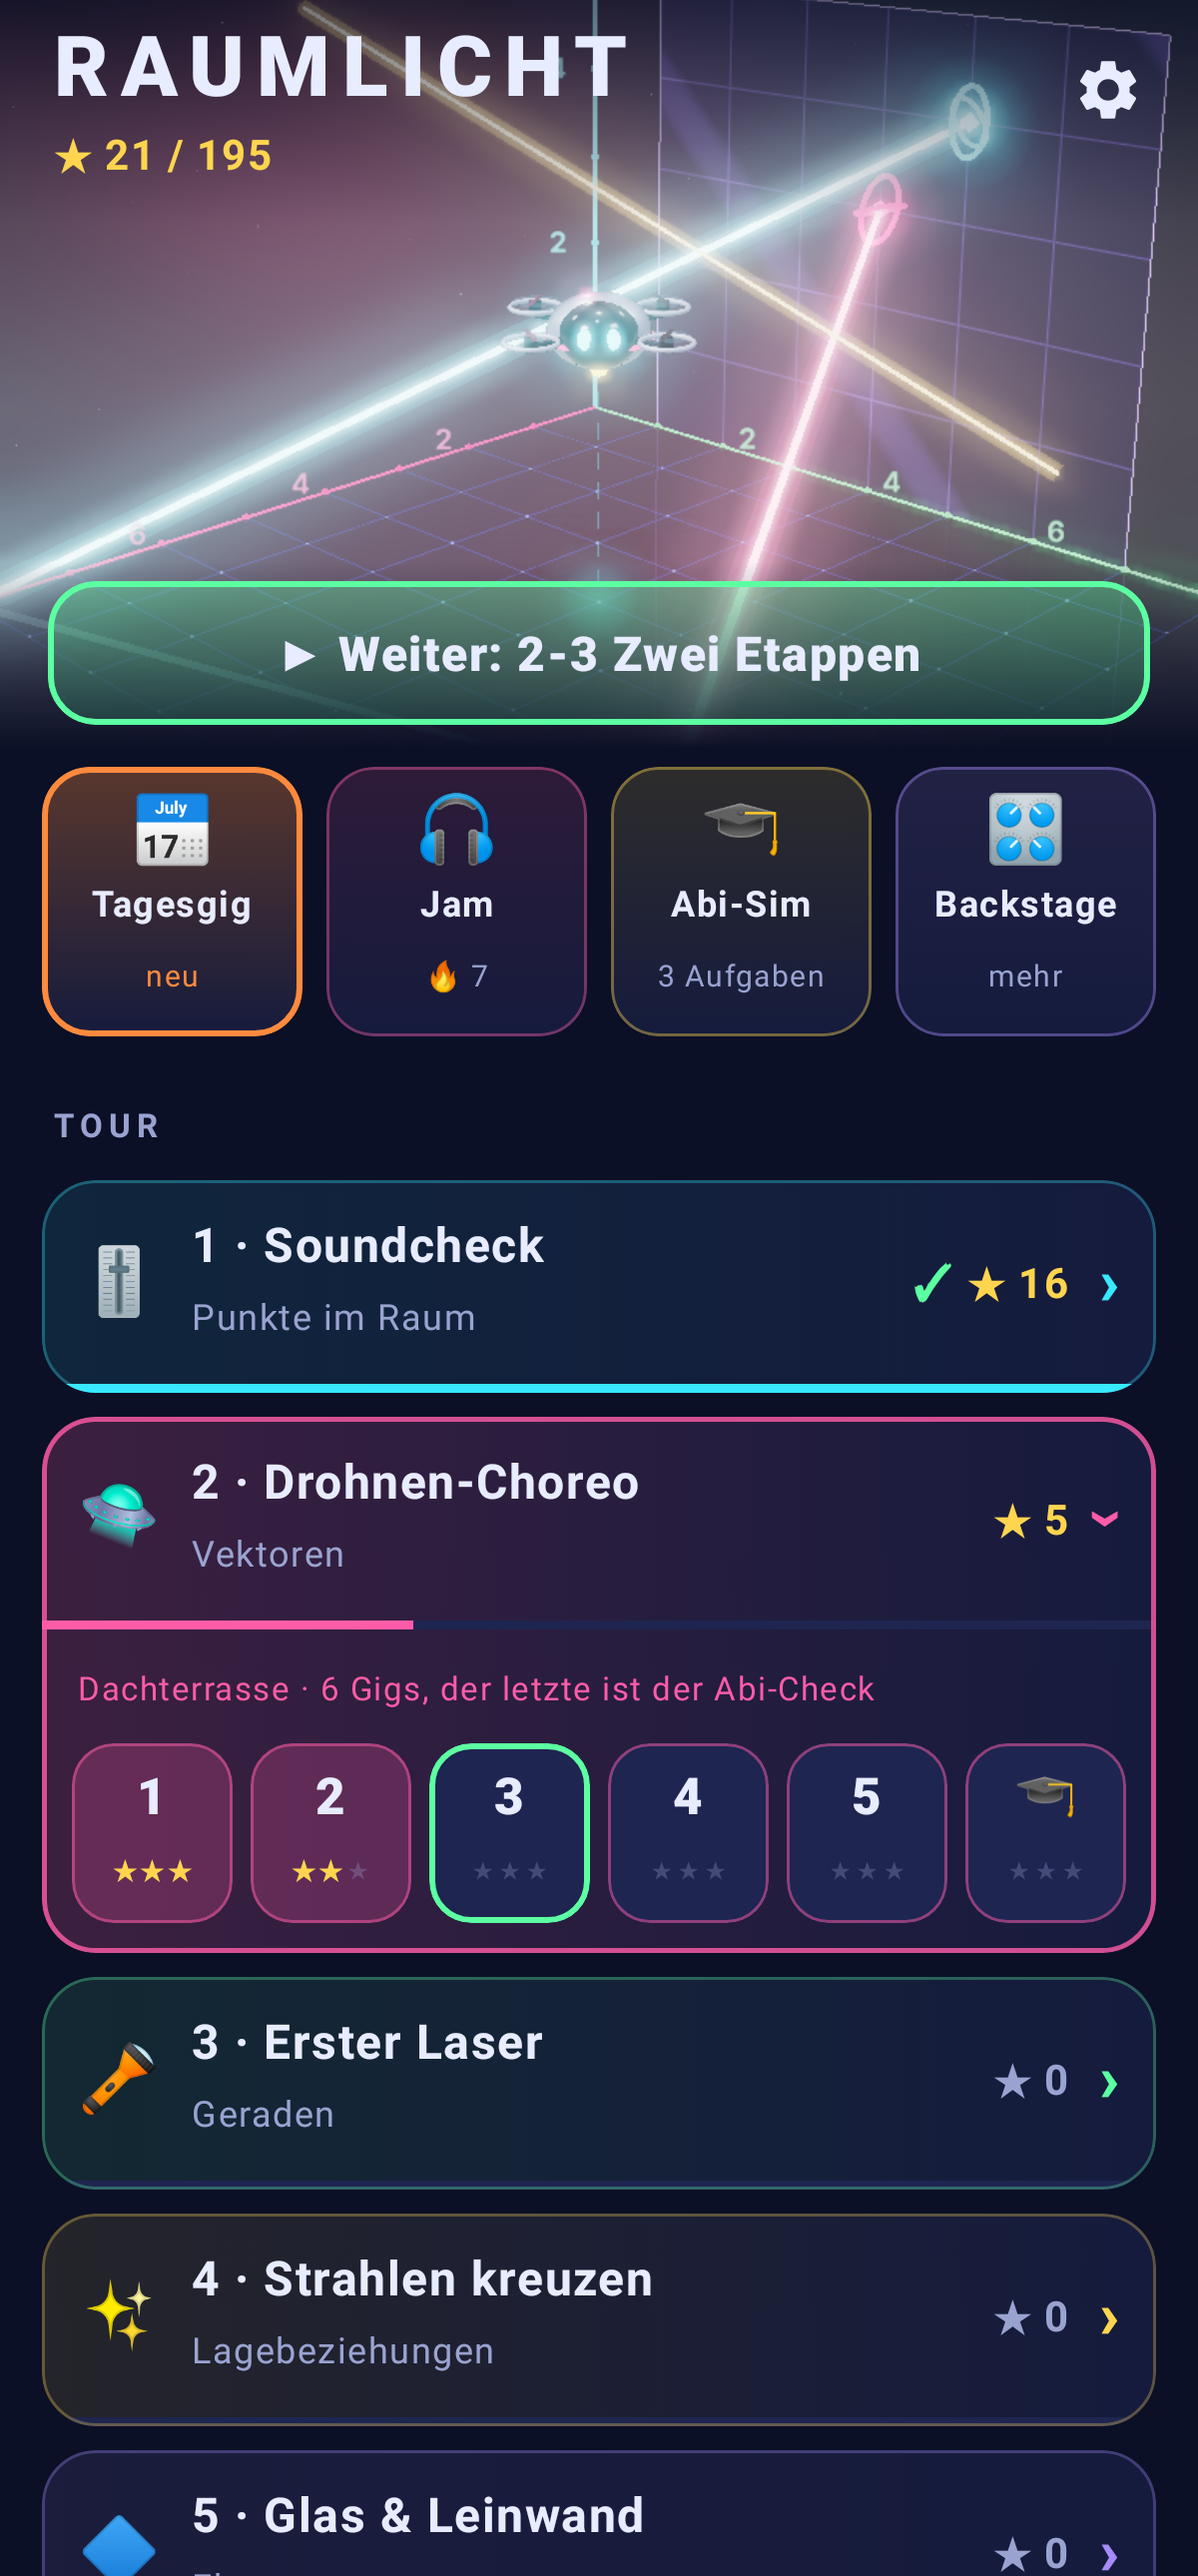
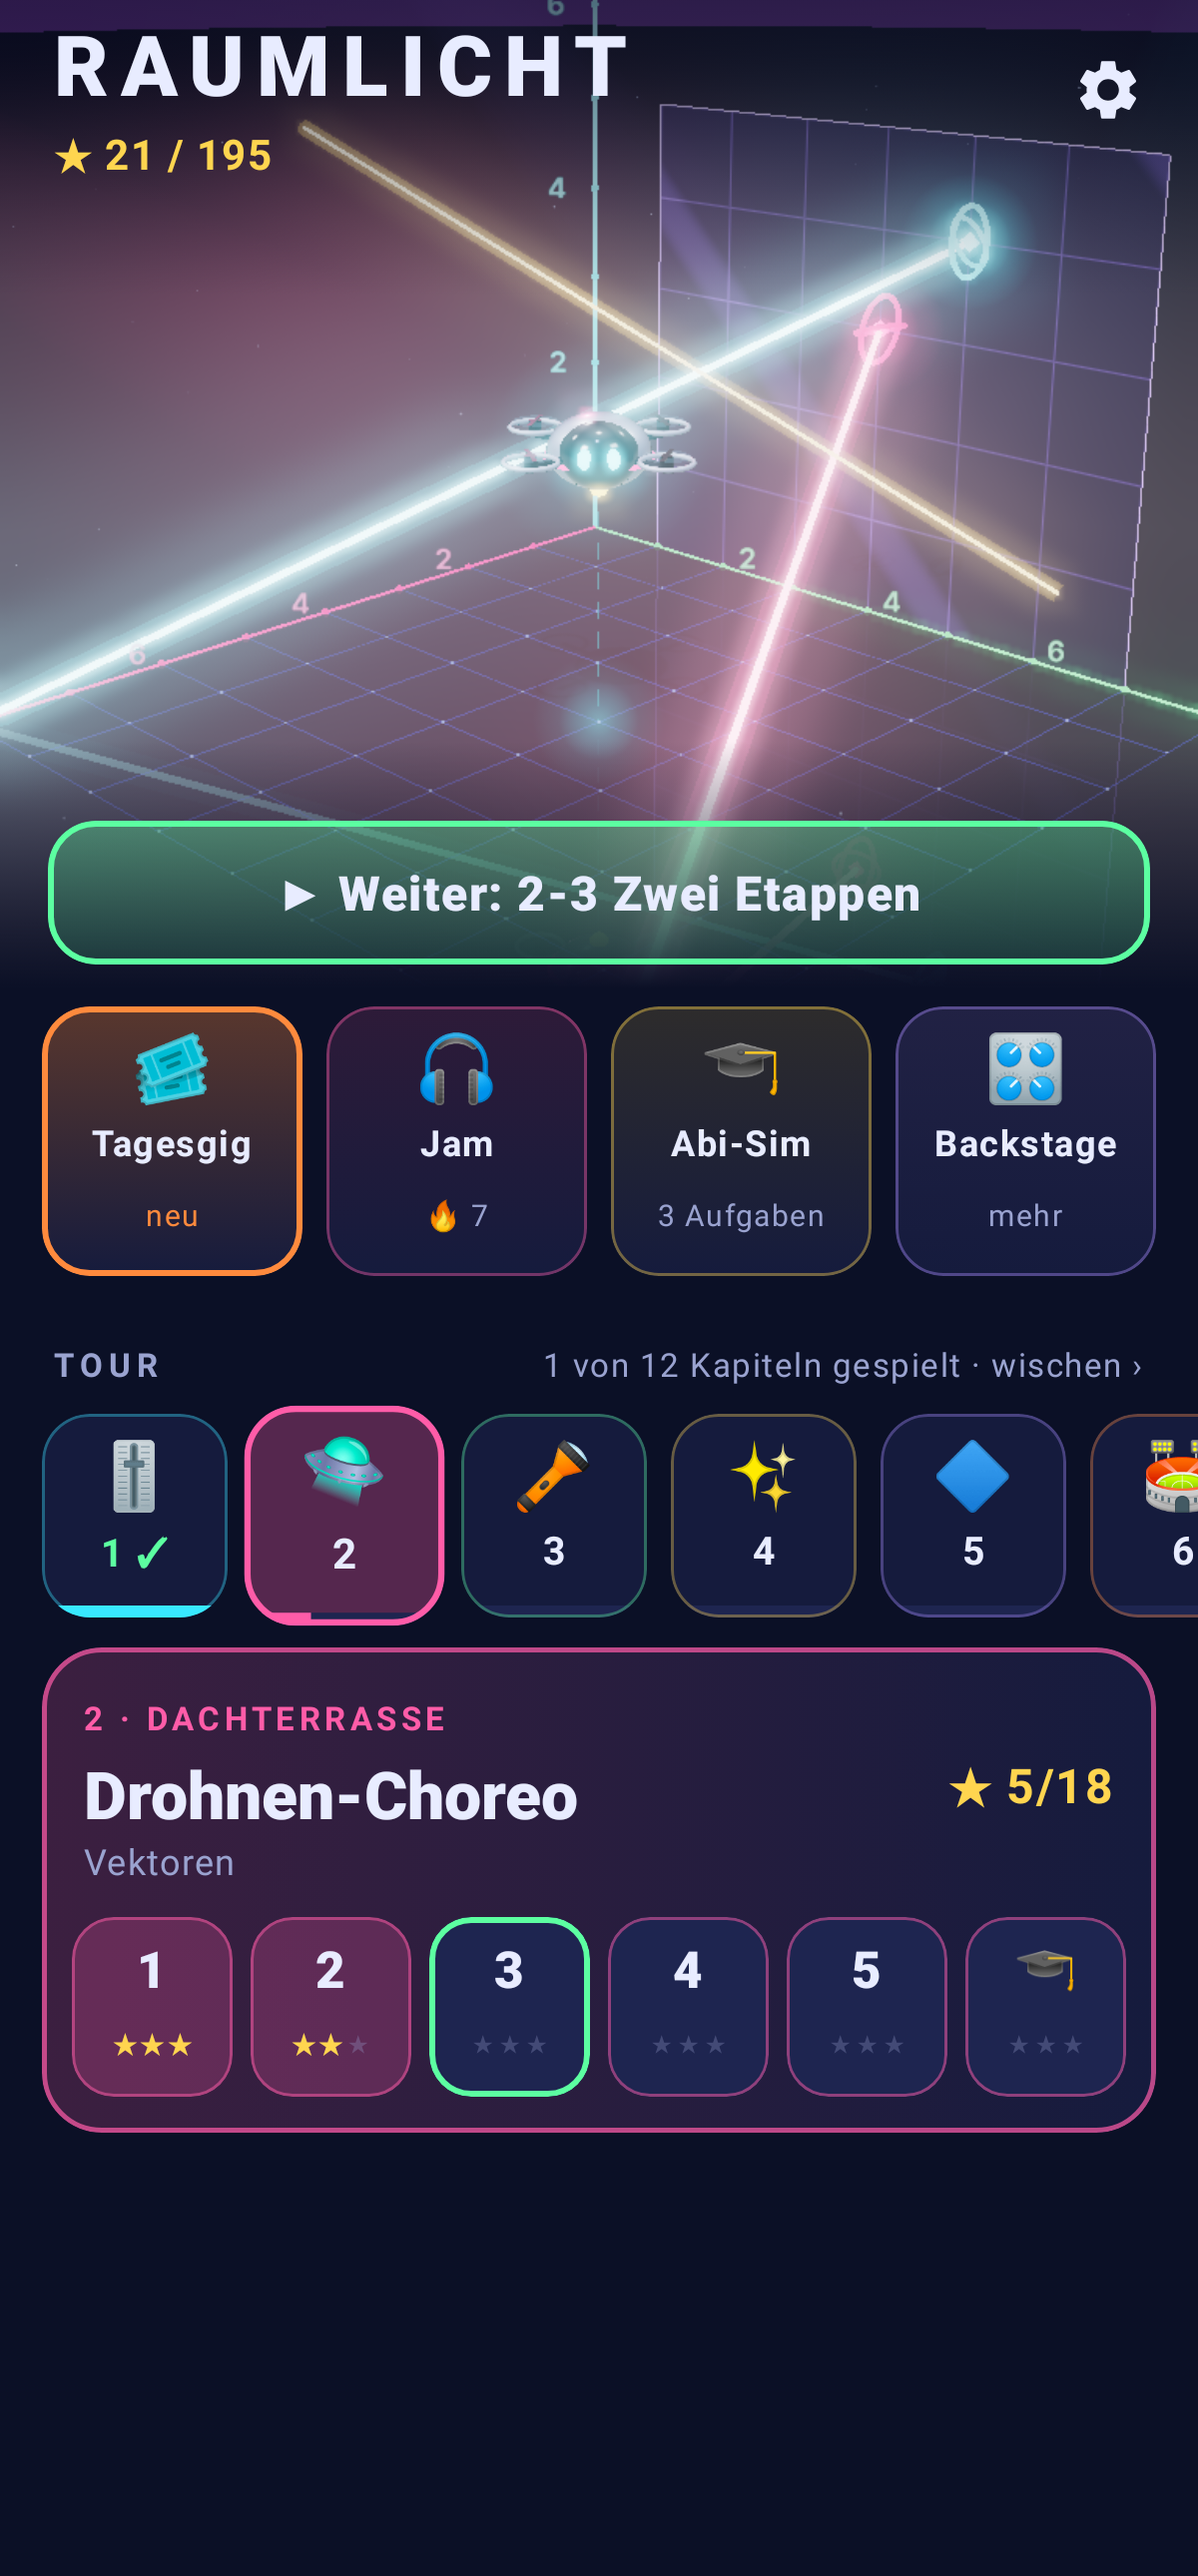
Raumlicht 0.3.3 (15.11.2026): Startseite auf einen Blick – Kapitel als Wisch-Leiste mit Detailkarte
Claude-Session: https://claude.ai/code/session_015vg1TkCEYsXkAEYjbLFPi2

diff --git a/raumlicht/app/src/main/java/de/raumlicht/app/ui/home/HomeScreen.kt b/raumlicht/app/src/main/java/de/raumlicht/app/ui/home/HomeScreen.kt
@@ -6,6 +6,13 @@ import androidx.compose.foundation.clickable
 import androidx.compose.foundation.interaction.MutableInteractionSource
 import androidx.compose.foundation.layout.*
 import androidx.compose.foundation.lazy.LazyColumn
+import androidx.compose.foundation.lazy.LazyRow
+import androidx.compose.foundation.lazy.rememberLazyListState
+import androidx.compose.animation.AnimatedContent
+import androidx.compose.animation.fadeIn
+import androidx.compose.animation.fadeOut
+import androidx.compose.animation.slideInHorizontally
+import androidx.compose.animation.togetherWith
 import androidx.compose.foundation.lazy.itemsIndexed
 import androidx.compose.foundation.shape.RoundedCornerShape
 import androidx.compose.material.icons.Icons
@@ -55,7 +62,7 @@ fun HomeScreen(
 
     LazyColumn(Modifier.fillMaxSize().background(Q.Space), contentPadding = PaddingValues(bottom = 24.dp)) {
         item {
-            Box(Modifier.fillMaxWidth().height(250.dp)) {
+            Box(Modifier.fillMaxWidth().height(330.dp)) {
                 Stage(controller, Modifier.fillMaxSize())
                 Box(Modifier.fillMaxSize().background(Brush.verticalGradient(0f to Q.Space.copy(alpha = 0.55f), 0.3f to Color.Transparent, 0.75f to Color.Transparent, 1f to Q.Space)))
                 Row(Modifier.fillMaxWidth().statusBarsPadding().padding(start = 18.dp, end = 6.dp, top = 6.dp), verticalAlignment = Alignment.Top) {
@@ -72,42 +79,64 @@ fun HomeScreen(
         }
         if (updateVersion != null) item { de.raumlicht.app.ui.settings.UpdateBanner(updateVersion, onUpdate) }
         item { ModeTiles(dailyDone, jamBest, onDaily, onJam, onExam, onMore) }
-        item { Text("TOUR", Modifier.padding(start = 18.dp, top = 12.dp, bottom = 2.dp), color = Q.Muted, fontSize = 11.sp, fontWeight = FontWeight.Bold, letterSpacing = 2.sp) }
-        itemsIndexed(chapters) { _, c -> ChapterCard(c, stars, next?.id, open == c.number, { open = if (open == c.number) -1 else c.number }, onLevel) }
         item {
-            Text("Analytische Geometrie der Oberstufe · keine Werbung · keine Anmeldung", Modifier.fillMaxWidth().padding(20.dp),
-                color = Q.Muted, fontSize = 11.sp, textAlign = androidx.compose.ui.text.style.TextAlign.Center)
+            Row(Modifier.fillMaxWidth().padding(start = 18.dp, end = 18.dp, top = 12.dp, bottom = 4.dp), verticalAlignment = Alignment.CenterVertically) {
+                Text("TOUR", color = Q.Muted, fontSize = 11.sp, fontWeight = FontWeight.Bold, letterSpacing = 2.sp)
+                Spacer(Modifier.weight(1f))
+                Text("${chapters.count { c -> c.levels.all { (stars[it.id] ?: 0) > 0 } }} von ${chapters.size} Kapiteln gespielt · wischen ›", color = Q.Muted, fontSize = 11.sp)
+            }
+        }
+        // Kapitel als schmale Leiste zum seitlichen Wischen – darunter nur das gewählte Kapitel
+        item {
+            val row = rememberLazyListState()
+            LaunchedEffect(Unit) { row.scrollToItem((chapters.indexOfFirst { it.number == open } - 1).coerceAtLeast(0)) }
+            LazyRow(state = row, contentPadding = PaddingValues(horizontal = 14.dp), horizontalArrangement = Arrangement.spacedBy(8.dp)) {
+                itemsIndexed(chapters) { _, c -> ChapterChip(c, stars, open == c.number, c.levels.any { it.id == next?.id }) { open = c.number } }
+            }
+        }
+        item {
+            val c = chapters.firstOrNull { it.number == open } ?: chapters.first()
+            AnimatedContent(c, transitionSpec = { (slideInHorizontally { if (targetState.number > initialState.number) it / 3 else -it / 3 } + fadeIn()) togetherWith fadeOut() }, label = "kapitel") { ch ->
+                ChapterDetail(ch, stars, next?.id, onLevel)
+            }
         }
     }
 }
 
+/** Ein Kapitel in der Leiste: Symbol, Nummer, Fortschrittsbalken. */
 @Composable
-private fun ChapterCard(c: Chapter, stars: Map<String, Int>, nextId: String?, expanded: Boolean, onToggle: () -> Unit, onLevel: (String) -> Unit) {
-    val accent = stageColor(c.color)
-    val got = c.levels.sumOf { stars[it.id] ?: 0 }; val played = c.levels.count { (stars[it.id] ?: 0) > 0 }; val done = played == c.levels.size
-    val turn by animateFloatAsState(if (expanded) 90f else 0f, spring(dampingRatio = 0.6f), label = "pfeil")
-    val head = remember { MutableInteractionSource() }
-    Column(Modifier.fillMaxWidth().padding(horizontal = 14.dp, vertical = 4.dp).clip(RoundedCornerShape(18.dp))
-        .background(Brush.horizontalGradient(listOf(accent.copy(alpha = if (expanded) 0.2f else 0.1f), Q.Deep)))
-        .border(if (expanded) 1.5.dp else 1.dp, accent.copy(alpha = if (expanded) 0.8f else 0.3f), RoundedCornerShape(18.dp))
-        .animateContentSize(spring(dampingRatio = 0.75f, stiffness = 400f))) {
-        Row(Modifier.fillMaxWidth().clickable(head, null, onClick = onToggle).padding(horizontal = 12.dp, vertical = 10.dp), verticalAlignment = Alignment.CenterVertically) {
-            Text(c.emoji, fontSize = 22.sp)
-            Column(Modifier.weight(1f).padding(start = 10.dp)) {
-                Text("${c.number} · ${c.title}", fontWeight = FontWeight.Bold, fontSize = 16.sp, maxLines = 1)
-                Text(c.topic, color = Q.Muted, fontSize = 12.sp, maxLines = 1)
-            }
-            Text(if (done) "✓ " else "", color = Q.Green, fontWeight = FontWeight.Black)
-            Text("★ $got", color = if (got > 0) Q.Yellow else Q.Muted, fontWeight = FontWeight.Bold, fontSize = 14.sp)
-            Text("›", Modifier.padding(start = 10.dp).graphicsLayer { rotationZ = turn }, color = accent, fontSize = 22.sp, fontWeight = FontWeight.Black)
-        }
-        // Fortschrittsbalken: wie viele Gigs des Kapitels schon gespielt sind
-        Box(Modifier.fillMaxWidth().height(3.dp).background(Q.Panel)) {
+private fun ChapterChip(c: Chapter, stars: Map<String, Int>, selected: Boolean, current: Boolean, onClick: () -> Unit) {
+    val accent = stageColor(c.color); val interaction = remember { MutableInteractionSource() }
+    val played = c.levels.count { (stars[it.id] ?: 0) > 0 }; val done = played == c.levels.size
+    val s by animateFloatAsState(if (selected) 1.08f else 1f, spring(dampingRatio = 0.5f, stiffness = 400f), label = "chip")
+    Column(Modifier.graphicsLayer { scaleX = s; scaleY = s }.pressBounce(interaction).width(62.dp).clip(RoundedCornerShape(16.dp))
+        .background(if (selected) accent.copy(alpha = 0.3f) else Q.Deep)
+        .border(if (selected) 2.dp else 1.dp, if (selected) accent else if (current) Q.Green else accent.copy(alpha = 0.35f), RoundedCornerShape(16.dp))
+        .clickable(interaction, null, onClick = onClick).padding(top = 8.dp), horizontalAlignment = Alignment.CenterHorizontally) {
+        Text(c.emoji, fontSize = 22.sp)
+        Text(if (done) "${c.number} ✓" else "${c.number}", fontWeight = FontWeight.Bold, fontSize = 13.sp, color = if (done) Q.Green else Q.Text)
+        Box(Modifier.padding(top = 6.dp).fillMaxWidth().height(4.dp).background(Q.Panel)) {
             Box(Modifier.fillMaxWidth(played / c.levels.size.toFloat()).fillMaxHeight().background(accent))
         }
-        if (expanded) {
-            Text("${c.venue} · ${c.levels.size} Gigs, der letzte ist der Abi-Check", Modifier.padding(start = 12.dp, top = 8.dp), color = accent, fontSize = 11.sp)
-        Row(Modifier.fillMaxWidth().padding(start = 10.dp, end = 10.dp, top = 6.dp, bottom = 10.dp), horizontalArrangement = Arrangement.spacedBy(6.dp)) {
+    }
+}
+
+/** Das gewählte Kapitel mit seinen Gigs. */
+@Composable
+private fun ChapterDetail(c: Chapter, stars: Map<String, Int>, nextId: String?, onLevel: (String) -> Unit) {
+    val accent = stageColor(c.color)
+    val got = c.levels.sumOf { stars[it.id] ?: 0 }
+    Column(Modifier.fillMaxWidth().padding(horizontal = 14.dp, vertical = 10.dp).clip(RoundedCornerShape(20.dp))
+        .background(Brush.horizontalGradient(listOf(accent.copy(alpha = 0.2f), Q.Deep))).border(1.5.dp, accent.copy(alpha = 0.7f), RoundedCornerShape(20.dp)).padding(bottom = 12.dp)) {
+        Row(Modifier.fillMaxWidth().padding(start = 14.dp, end = 14.dp, top = 12.dp), verticalAlignment = Alignment.CenterVertically) {
+            Column(Modifier.weight(1f)) {
+                Text("${c.number} · ${c.venue}".uppercase(), color = accent, fontSize = 11.sp, fontWeight = FontWeight.Bold, letterSpacing = 1.5.sp)
+                Text(c.title, style = MaterialTheme.typography.titleLarge, maxLines = 1)
+                Text(c.topic, color = Q.Muted, style = MaterialTheme.typography.bodySmall, maxLines = 1)
+            }
+            Text("★ $got/${c.levels.size * 3}", color = Q.Yellow, fontWeight = FontWeight.Bold)
+        }
+        Row(Modifier.fillMaxWidth().padding(start = 10.dp, end = 10.dp, top = 10.dp), horizontalArrangement = Arrangement.spacedBy(6.dp)) {
             c.levels.forEach { l ->
                 val s = stars[l.id] ?: 0
                 val interaction = remember { MutableInteractionSource() }
@@ -119,7 +148,6 @@ private fun ChapterCard(c: Chapter, stars: Map<String, Int>, nextId: String?, ex
                     Box(Modifier.graphicsLayer { scaleX = 0.62f; scaleY = 0.62f }) { StarRow(s, lit = true, size = 16) }
                 }
             }
-        }
         }
     }
 }

diff --git a/raumlicht/app/src/main/java/de/raumlicht/app/MainActivity.kt b/raumlicht/app/src/main/java/de/raumlicht/app/MainActivity.kt
@@ -148,9 +148,9 @@ class MainActivity : ComponentActivity() {
             composable(Routes.DAILY) {
                 val day = remember { vm.today() }
                 val level = remember(day) { Daily.forDay(day) }
-                LevelScreen(level, Chapter(0, "Tagesgig", level.title, "Tagesgig", "📅", "orange", emptyList(), emptyList()), false, {},
+                LevelScreen(level, Chapter(0, "Tagesgig", level.title, "Tagesgig", "🎟", "orange", emptyList(), emptyList()), false, {},
                     onSolved = { s, a -> vm.record(level.id, s, a) }, onNext = null, onBack = { nav.popSafe() },
-                    caption = "📅 Tagesgig · ${level.title}", doneLabel = "Fertig für heute ✓")
+                    caption = "🎟 Tagesgig · ${level.title}", doneLabel = "Fertig für heute ✓")
             }
             composable(Routes.JAM_HOME) { JamPicker(jamBest, { nav.goOnce(Routes.jam(it.name)) }, { nav.popSafe() }) }
             composable(Routes.JAM) { e ->

diff --git a/raumlicht/app/src/test/java/de/raumlicht/app/ui/ScreenshotTest.kt b/raumlicht/app/src/test/java/de/raumlicht/app/ui/ScreenshotTest.kt
@@ -93,8 +93,8 @@ class ScreenshotTest {
     }
     @Test fun daily() = shot("25_tagesgig", "tag") {
         val l = de.raumlicht.core.model.Daily.forDay(20_772)
-        LevelScreen(l, de.raumlicht.core.model.Chapter(0, "Tagesgig", l.title, "Tagesgig", "📅", "orange", emptyList(), emptyList()), false, {}, { _, _ -> }, null, {},
-            caption = "📅 Tagesgig · ${l.title}", doneLabel = "Fertig für heute ✓")
+        LevelScreen(l, de.raumlicht.core.model.Chapter(0, "Tagesgig", l.title, "Tagesgig", "🎟", "orange", emptyList(), emptyList()), false, {}, { _, _ -> }, null, {},
+            caption = "🎟 Tagesgig · ${l.title}", doneLabel = "Fertig für heute ✓")
     }
     @Test fun sheet() = shot("26_spickzettel", "start") { de.raumlicht.app.ui.home.SheetScreen(de.raumlicht.core.model.Sheet.cards, onBack = {}) }
     @Test fun motion() = level("28_bewegung", "11-5", values = mapOf("a" to listOf(1)))

diff --git a/raumlicht/app/src/main/java/de/raumlicht/app/ui/home/Extras.kt b/raumlicht/app/src/main/java/de/raumlicht/app/ui/home/Extras.kt
@@ -139,7 +139,7 @@ fun BadgesScreen(badges: List<Badge>, onBack: () -> Unit) {
 @Composable
 fun ModeTiles(dailyDone: Boolean, jamBest: Int, onDaily: () -> Unit, onJam: () -> Unit, onExam: () -> Unit, onMore: () -> Unit) {
     Row(Modifier.padding(horizontal = 14.dp, vertical = 6.dp), horizontalArrangement = Arrangement.spacedBy(8.dp)) {
-        Tile("📅", "Tagesgig", if (dailyDone) "✓" else "neu", Q.Orange, !dailyDone, Modifier.weight(1f), onDaily)
+        Tile("🎟", "Tagesgig", if (dailyDone) "✓" else "neu", Q.Orange, !dailyDone, Modifier.weight(1f), onDaily)
         Tile("🎧", "Jam", if (jamBest > 0) "🔥 $jamBest" else "endlos", Q.Pink, false, Modifier.weight(1f), onJam)
         Tile("🎓", "Abi-Sim", "3 Aufgaben", Q.Yellow, false, Modifier.weight(1f), onExam)
         Tile("🎛", "Backstage", "mehr", Q.Violet, false, Modifier.weight(1f), onMore)

diff --git a/raumlicht/core/model/src/main/kotlin/de/raumlicht/core/model/Gen.kt b/raumlicht/core/model/src/main/kotlin/de/raumlicht/core/model/Gen.kt
@@ -232,7 +232,7 @@ object Badges {
             Badge("abi", "🏆", "Abi-ready", "Alle Abi-Checks bestanden", abi.all { (tour[it.id] ?: 0) > 0 }),
             Badge("halb", "🚐", "Halbe Tour", "Die Hälfte aller Gigs gespielt", tour.size * 2 >= Levels.all.size),
             Badge("tour", "🎆", "Tour geschafft", "Alle Gigs gespielt", tour.size == Levels.all.size),
-            Badge("tag3", "📅", "Stammgast", "3 Tagesgigs gelöst", dailies >= 3),
+            Badge("tag3", "🎟", "Stammgast", "3 Tagesgigs gelöst", dailies >= 3),
             Badge("tag10", "🗓", "Residency", "10 Tagesgigs gelöst", dailies >= 10),
             Badge("jam5", "🎧", "Im Flow", "Jam-Session: 5 in Folge beim ersten Versuch", jamBest >= 5),
             Badge("jam15", "🔥", "Unaufhaltsam", "Jam-Session: 15 in Folge", jamBest >= 15),

diff --git a/raumlicht/CHANGELOG.md b/raumlicht/CHANGELOG.md
@@ -2,6 +2,11 @@
 
 Jede Version steht hier mit ihrem Datum.
 
+## 0.3.3 – Alles auf einen Blick (15.11.2026)
+- **Startseite ohne lange Liste:** Die zwölf Kapitel sind jetzt eine schmale Leiste zum seitlichen Wischen. Darunter steht nur das gewählte Kapitel
+  mit seinen Gigs. Die ganze Startseite passt auf einen Bildschirm.
+- Die Leiste springt beim Öffnen zu dem Kapitel, in dem es weitergeht (grün umrandet).
+
 ## 0.3.2 – Feinschliff (15.11.2026)
 - **Abi-Simulation auf Zeit:** freiwilliger Schalter – 9 Minuten je Aufgabe, die Uhr läuft oben mit. Ist die Zeit um, zählt, was bis dahin gelöst ist.
 - **Jam-Session „Bewegung & Rotation“:** neue Zufallsaufgaben zu Ort nach t Sekunden, Tempo, Flughöhe und Rotationskörpern – auch in „Alles gemischt“.
